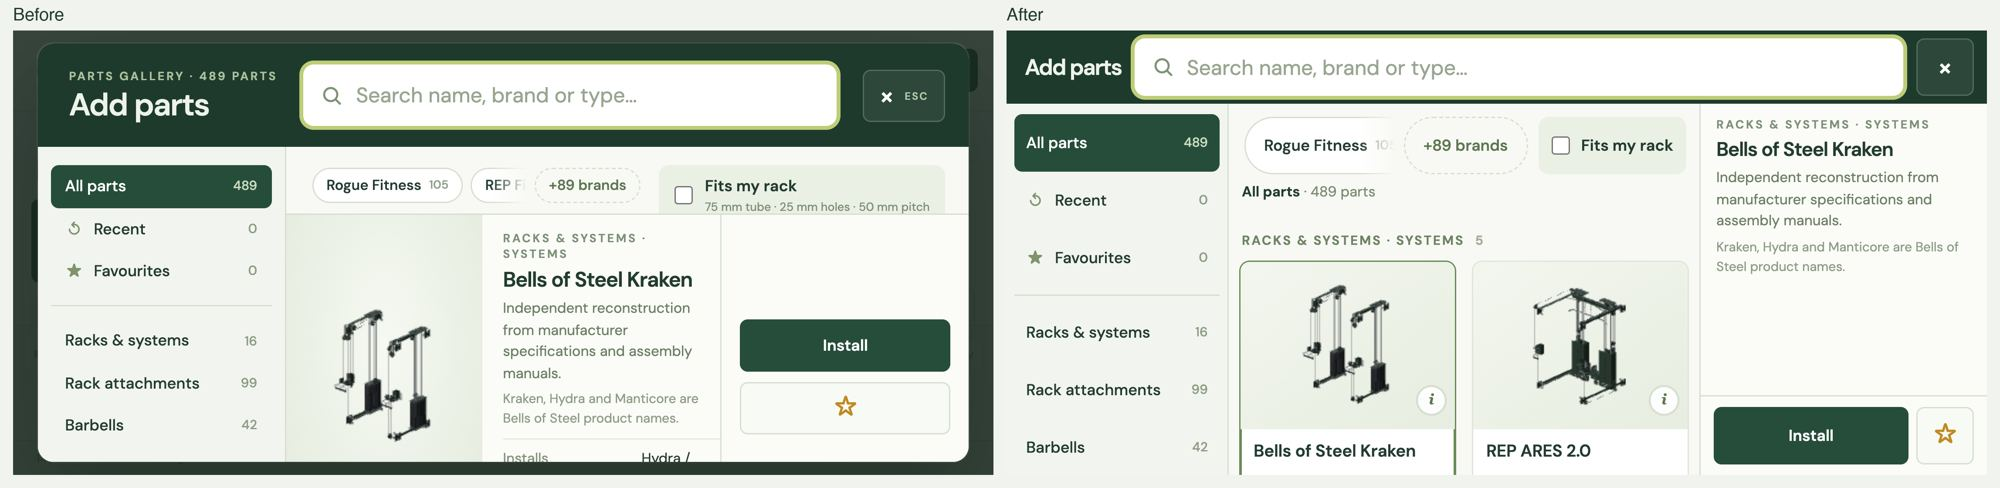
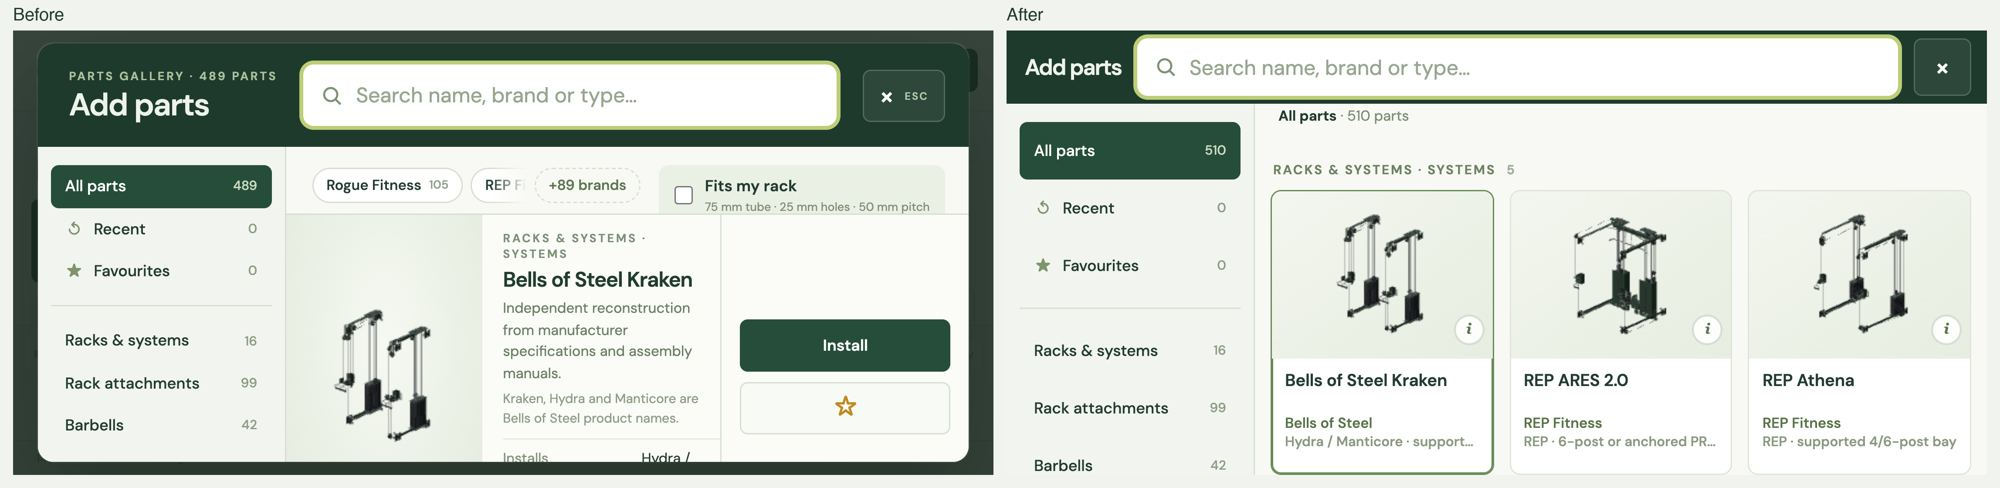
Defer the landscape-phone gallery layout to the builder shell (#203); open the gallery from its launcher in the spec
Claude-Session: https://claude.ai/code/session_012UbFo1vdfp4VJ6W2xVLnn3

diff --git a/src/components/PartGallery/part-gallery.css b/src/components/PartGallery/part-gallery.css
@@ -230,46 +230,4 @@
   .pg-fit { width: auto; max-width: 45%; padding: 4px 10px; }
   .pg-fit small { display: none; }
 }
-/* Phone landscape: too short for stacked bands. A one-row header, categories on the left, a slim detail column. */
-@media (max-height: 520px) and (orientation: landscape) {
-  .pg-panel {
-    inset: 0; border-radius: 0;
-    grid-template-columns: min(170px, 24vw) minmax(0, 1fr) min(220px, 30vw); grid-template-rows: auto minmax(0, 1fr);
-    grid-template-areas: 'header header header' 'nav main detail';
-  }
-  .pg-header { flex-wrap: nowrap; gap: 10px; padding: 6px max(10px, env(safe-area-inset-right)) 6px max(14px, env(safe-area-inset-left)); }
-  .pg-header .pg-eyebrow { display: none; }
-  .pg-heading { flex: none; }
-  .pg-heading h2 { font-size: 17px; margin: 0; }
-  .pg-search { order: 0; flex: 1; flex-basis: auto; max-width: none; margin: 0; }
-  .pg-search input { font-size: 16px; padding: 10px 0; }
-  .pg-nav {
-    display: block; overflow: auto; padding: 8px 6px max(8px, env(safe-area-inset-bottom)) max(6px, env(safe-area-inset-left));
-    border-right: 1px solid var(--pg-line); border-bottom: 0;
-  }
-  .pg-nav ul, .pg-nav > ul:first-child { display: block; }
-  .pg-nav > ul:first-child { padding-bottom: 6px; margin-bottom: 6px; border-bottom: 1px solid var(--pg-line); }
-  .pg-nav li { display: list-item; }
-  .part-gallery .pg-nav-item { width: 100%; padding: 6px 8px; border-color: transparent; background: transparent; border-radius: 6px; }
-  .pg-sections { display: block !important; }
-  .part-gallery .pg-sections .pg-nav-item { border-style: none; }
-  .pg-nav-label { overflow: hidden; }
-  .pg-filters { flex-direction: row; align-items: center; gap: 8px; padding: 8px 10px 4px; }
-  .pg-brands { width: auto; }
-  .pg-fit { width: auto; max-width: 42%; padding: 0 10px; }
-  .pg-fit small { display: none; }
-  .pg-status { padding: 0 10px 6px; }
-  .pg-scroller { padding: 0 8px; }
-  .pg-detail {
-    flex-direction: column; flex-wrap: nowrap; align-items: stretch; max-height: none; border-top: 0; border-left: 1px solid var(--pg-line);
-    padding: 0 env(safe-area-inset-right) env(safe-area-inset-bottom) 0;
-  }
-  .pg-detail-thumb { display: none; }
-  .pg-detail-body { flex: 1; max-height: none; padding: 10px 12px 6px; }
-  .pg-detail .pg-eyebrow { display: block; }
-  .pg-detail h3 { font-size: 15px; }
-  .pg-dims { display: none; }
-  .pg-detail-actions { flex-direction: row; flex-wrap: wrap; width: auto; border-left: 0; border-top: 1px solid var(--pg-line); padding: 8px 10px; gap: 6px; }
-  .part-gallery .pg-detail-actions button { flex: 1; padding: 8px 10px; }
-  .part-gallery .pg-detail-actions .pg-fav { flex: none; width: 44px; }
-}
+/* Short landscape phones: the builder shell (MobileShell/mobile-shell.css, #203) owns that layout. */

diff --git a/e2e/mobile-pages.spec.ts b/e2e/mobile-pages.spec.ts
@@ -187,10 +187,10 @@ for (const [name, { defaultBrowserType: _, ...device }] of Object.entries(DEVICE
         page.setDefaultTimeout(30000);
         await page.addInitScript(() => localStorage.removeItem('bos-strength-part-gallery-v1'));
         await page.goto(`${base()}/`);
-        const launcher = page.locator('#open-gallery');
-        await expect(page.locator('#root')).not.toBeEmpty();
-        if (await launcher.isVisible().catch(() => false)) await launcher.tap();
-        else await page.locator('body').press('/');
+        // Phones open it from the top bar's "Add parts" (#203); wider screens from the sidebar launcher.
+        const launcher = page.locator('.toolbar-add:visible, #open-gallery:visible').first();
+        await expect(launcher).toBeVisible();
+        await launcher.tap();
         const gallery = page.locator('.part-gallery');
         await expect(gallery.locator('.pg-card').first()).toBeVisible();
         // Let the open animation (a 10 px rise) finish before measuring.
@@ -206,9 +206,12 @@ for (const [name, { defaultBrowserType: _, ...device }] of Object.entries(DEVICE
 
         await gallery.getByRole('button', { name: /^Benches/ }).tap();
         await expect(gallery.locator('.pg-status')).toContainText('Benches');
-        await gallery.locator('.pg-card-info').first().tap();
-        const name = await gallery.locator('.pg-card').first().getAttribute('aria-label');
-        await expect(gallery.locator('#pg-detail-name')).toHaveText(name!);
+        // The detail pane (and each card's (i)) is hidden on short landscape phones, where a tap adds the part.
+        if (await gallery.locator('.pg-detail').isVisible()) {
+          await gallery.locator('.pg-card-info').first().tap();
+          const name = await gallery.locator('.pg-card').first().getAttribute('aria-label');
+          await expect(gallery.locator('#pg-detail-name')).toHaveText(name!);
+        }
         await gallery.getByRole('button', { name: /^All parts/ }).tap();
         await gallery.locator('#gallery-search').fill('echo bike');
         await expect(gallery.locator('[data-part="rogue-echo-bike"]')).toBeVisible();
